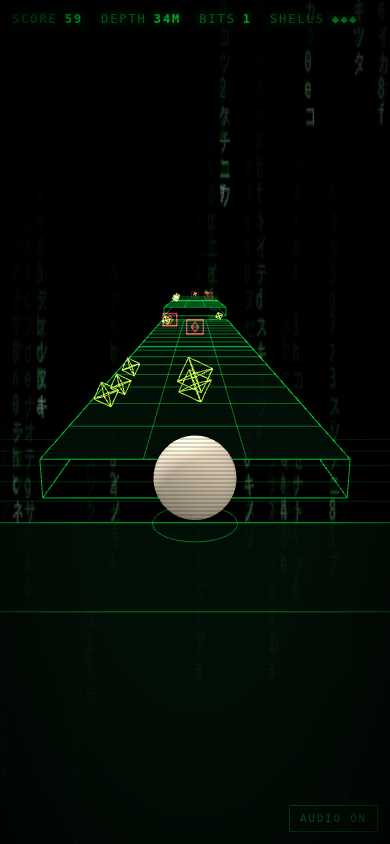
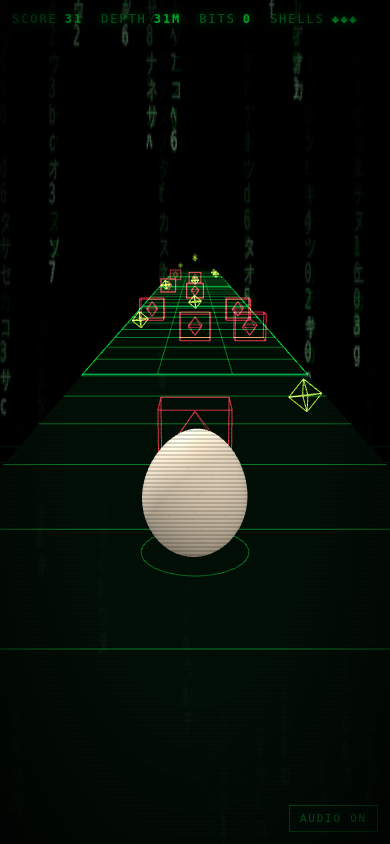
Keep the shell upright, and stop the squash spring blowing up
The egg was coming out the wrong shape, two reasons.

It tumbled end over end, so most frames caught it pointing at the camera or
lying on its side. The silhouette — fat end down, narrow end up — is the whole
asset, so it now stays upright: it rocks while it runs, turns slowly on the
spot and leans into a lane change, the way Marc does.

The squash spring was worse, and a real bug rather than a matter of taste. It
is explicit Euler integrated on the raw frame delta, so a long frame did not
slow it down, it blew it up: one hitch and the shell pinned at its limits and
stayed there, alternating between a pancake and a capsule. It is sub-stepped at
1/120 now, and clamped so it can squash but barely stretch.

Measured against the asset rather than eyeballed. The shaped shell is 0.818
wide for every 1 tall; on screen it was rendering 0.66 to 0.77, and now renders
0.813 to 0.845 — Marc's own page measures 0.834 the same way.

Also drops the lens from 64° to 52°, since a wide lens stretches whatever sits
away from the middle of the frame, and what sits there is the egg.

Claude-Session: https://claude.ai/code/session_01A7kZFhN8q6WSvqXrjoWpht

diff --git a/src/render/view.js b/src/render/view.js
@@ -14,8 +14,17 @@ const WIDE = { back: 6.8, up: 2.45, lead: 8, aim: 1.1 };
 const TALL = { back: 5.8, up: 3.3, lead: 5, aim: 0.2 };
 const CHASE = 6;
 const DRAW = { behind: 12, ahead: 130 };
-/** The shell's own half-height — roll it by anything else and it skids. */
-const ROLL_RADIUS = PLAYER.height / 2;
+/** How hard the shell rocks while it runs, and how fast. */
+const ROCK = { amount: 0.075, speed: 11, lean: 0.12, spin: 0.5 };
+
+/**
+ * The squash spring, and the step it is integrated at. It is explicit Euler,
+ * so a long frame does not slow it down — it blows it up: one 250ms hitch and
+ * the shell pins at its limits and stays there, wobbling between a pancake and
+ * a capsule. Sub-stepping is the whole fix, and it matters because the
+ * silhouette is the asset.
+ */
+const SQUASH = { k: 190, c: 11, step: 1 / 120, max: 0.4, stretch: -0.08 };
 
 function createPool(scene, make) {
   const items = [];
@@ -104,26 +113,43 @@ export function createView({ scene, camera, studio }) {
   function syncEgg(snapshot, dt, time) {
     const { player, state, invulnerable } = snapshot;
 
-    spring(squash, 190, 11, dt, 0);
-    const s = clamp(squash.p, -0.45, 0.45);
+    for (let left = Math.min(dt, 0.25); left > 0; left -= SQUASH.step) {
+      spring(squash, SQUASH.k, SQUASH.c, Math.min(SQUASH.step, left), 0);
+    }
+    /**
+     * Squash freely, stretch barely. The rebound of a landing used to pull the
+     * shell into a capsule, and a stretched egg is not an egg — the silhouette
+     * is the asset, so the spring is only allowed to flatten it.
+     */
+    const s = clamp(squash.p, SQUASH.stretch, SQUASH.max);
 
     egg.object.position.set(player.x, player.y + PLAYER.height / 2, player.z);
     /** The studio travels with the shell, so the light on it never drifts. */
     studio?.position.set(player.x, player.y, player.z);
     egg.object.scale.set(1 + s * 0.4, 1 - s, 1 + s * 0.4);
     egg.object.scale.multiplyScalar(EGG_SCALE);
-    egg.object.rotation.z = clamp((laneX(player.lane) - player.x) * -0.5, -0.45, 0.45);
 
-    egg.body.rotation.x = player.z / ROLL_RADIUS;
+    /**
+     * The shell stays upright. An egg tumbling end over end is a shape you
+     * cannot read — half the time it is pointing at you — and the silhouette,
+     * fat end down, is the whole asset. So it rocks and it turns on the spot,
+     * the way Marc does, and leans into the lane it is moving to.
+     */
+    const running = state === 'running';
+    const rock = running && player.grounded ? Math.sin(time * ROCK.speed) * ROCK.amount : 0;
+    const drift = clamp((laneX(player.lane) - player.x) * -0.4, -0.35, 0.35);
+
+    egg.object.rotation.set(
+      running ? ROCK.lean + (player.grounded ? 0 : -0.1) : 0,
+      egg.object.rotation.y + (running ? dt * ROCK.spin : 0),
+      rock + drift,
+    );
 
     if (state === 'ready') {
       /** Nothing is running yet, so the egg does what Marc does: it rocks. */
       egg.object.position.y += Math.sin(time * 1.4) * 0.05;
       egg.object.rotation.z = Math.sin(time * 0.9) * 0.09;
-      egg.body.rotation.x = Math.sin(time * 0.5) * 0.25;
       egg.object.rotation.y = time * 0.35;
-    } else {
-      egg.object.rotation.y = 0;
     }
 
     if (state === 'over') {

diff --git a/src/render/scene.js b/src/render/scene.js
@@ -17,7 +17,9 @@ export function createScene(canvas) {
   const scene = new THREE.Scene();
   scene.fog = new THREE.Fog(THEME.void, 26, 108);
 
-  const camera = new THREE.PerspectiveCamera(64, 1, 0.1, 260);
+  /** 52°, not the 64° this started on: a wide lens stretches whatever sits
+   *  away from the middle of the frame, and what sits there is the egg. */
+  const camera = new THREE.PerspectiveCamera(52, 1, 0.1, 260);
   camera.position.set(0, 3.2, -8.4);
 
   const studio = buildLights(scene);
@@ -35,7 +37,7 @@ export function createScene(canvas) {
     renderer.setSize(w, h, false);
     camera.aspect = w / h;
     /** A tall window needs a taller lens, or the course shrinks to a thread. */
-    camera.fov = camera.aspect < 1 ? 76 : 64;
+    camera.fov = camera.aspect < 1 ? 64 : 52;
     camera.updateProjectionMatrix();
   }
 

diff --git a/README.md b/README.md
@@ -7,8 +7,13 @@ itself, jump the holes, weave the agents, take the bits.
 
 The egg is [Marc's](https://github.com/h1ddenpr0cess20/marc), as he is — the
 same 128×96 shell through the same `shapeEgg` profile, the same 900-speckle
-cream skin, the same physical material with its clearcoat and sheen. He is the
-only thing in here that is not made of lines, which is the point.
+cream skin, the same physical material with its clearcoat and sheen, lit by his
+studio rig. He is the only thing in here that is not made of lines, which is the
+point.
+
+He stays upright, too. The silhouette — fat end down, narrow end up — is the
+asset, so he rocks and turns on the spot instead of tumbling end over end, and
+the squash spring is allowed to flatten him but barely to stretch him.
 
 ![Eggscape the Matrix in a desktop browser](docs/screenshots/desktop.png)
 
